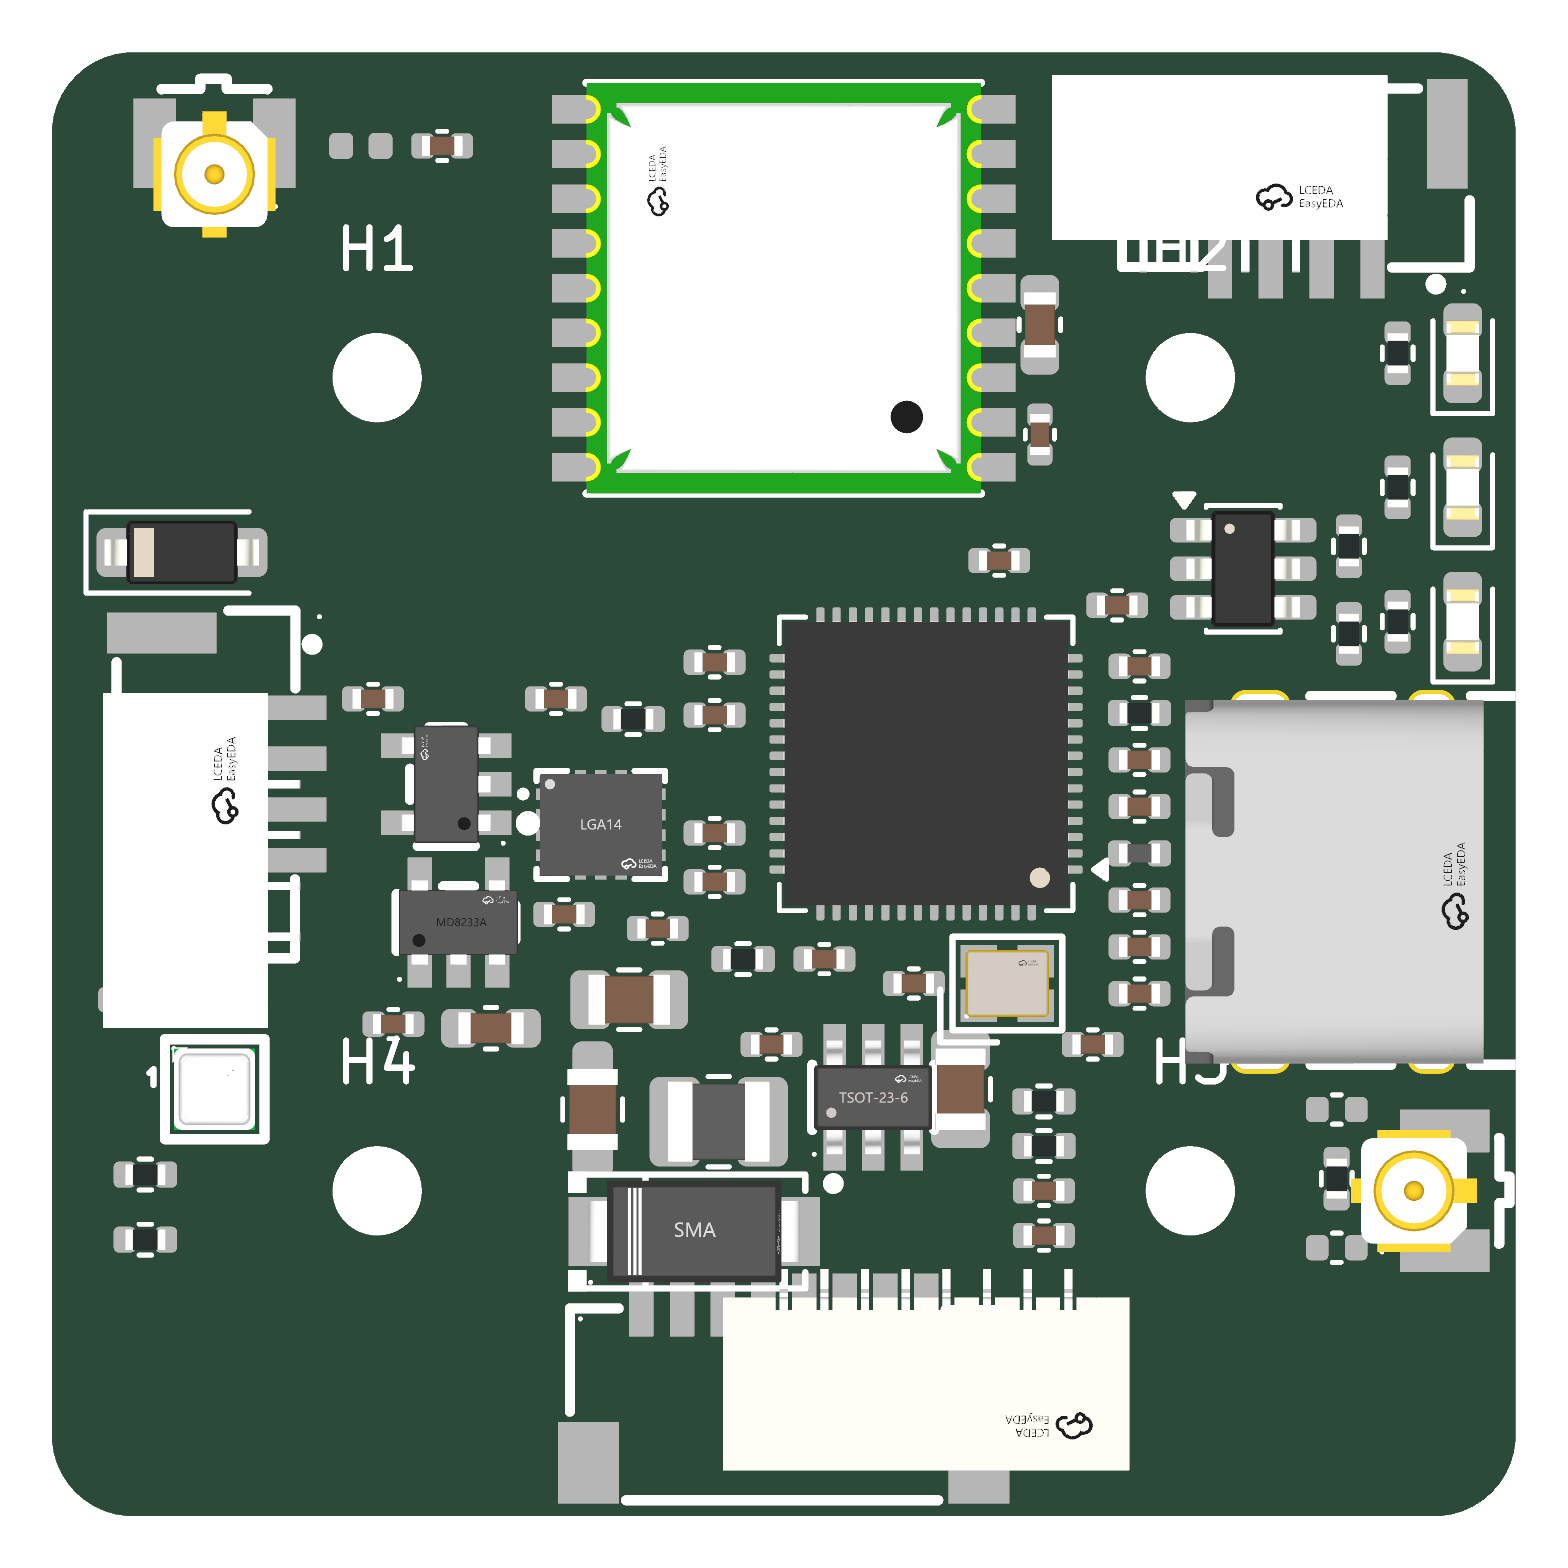
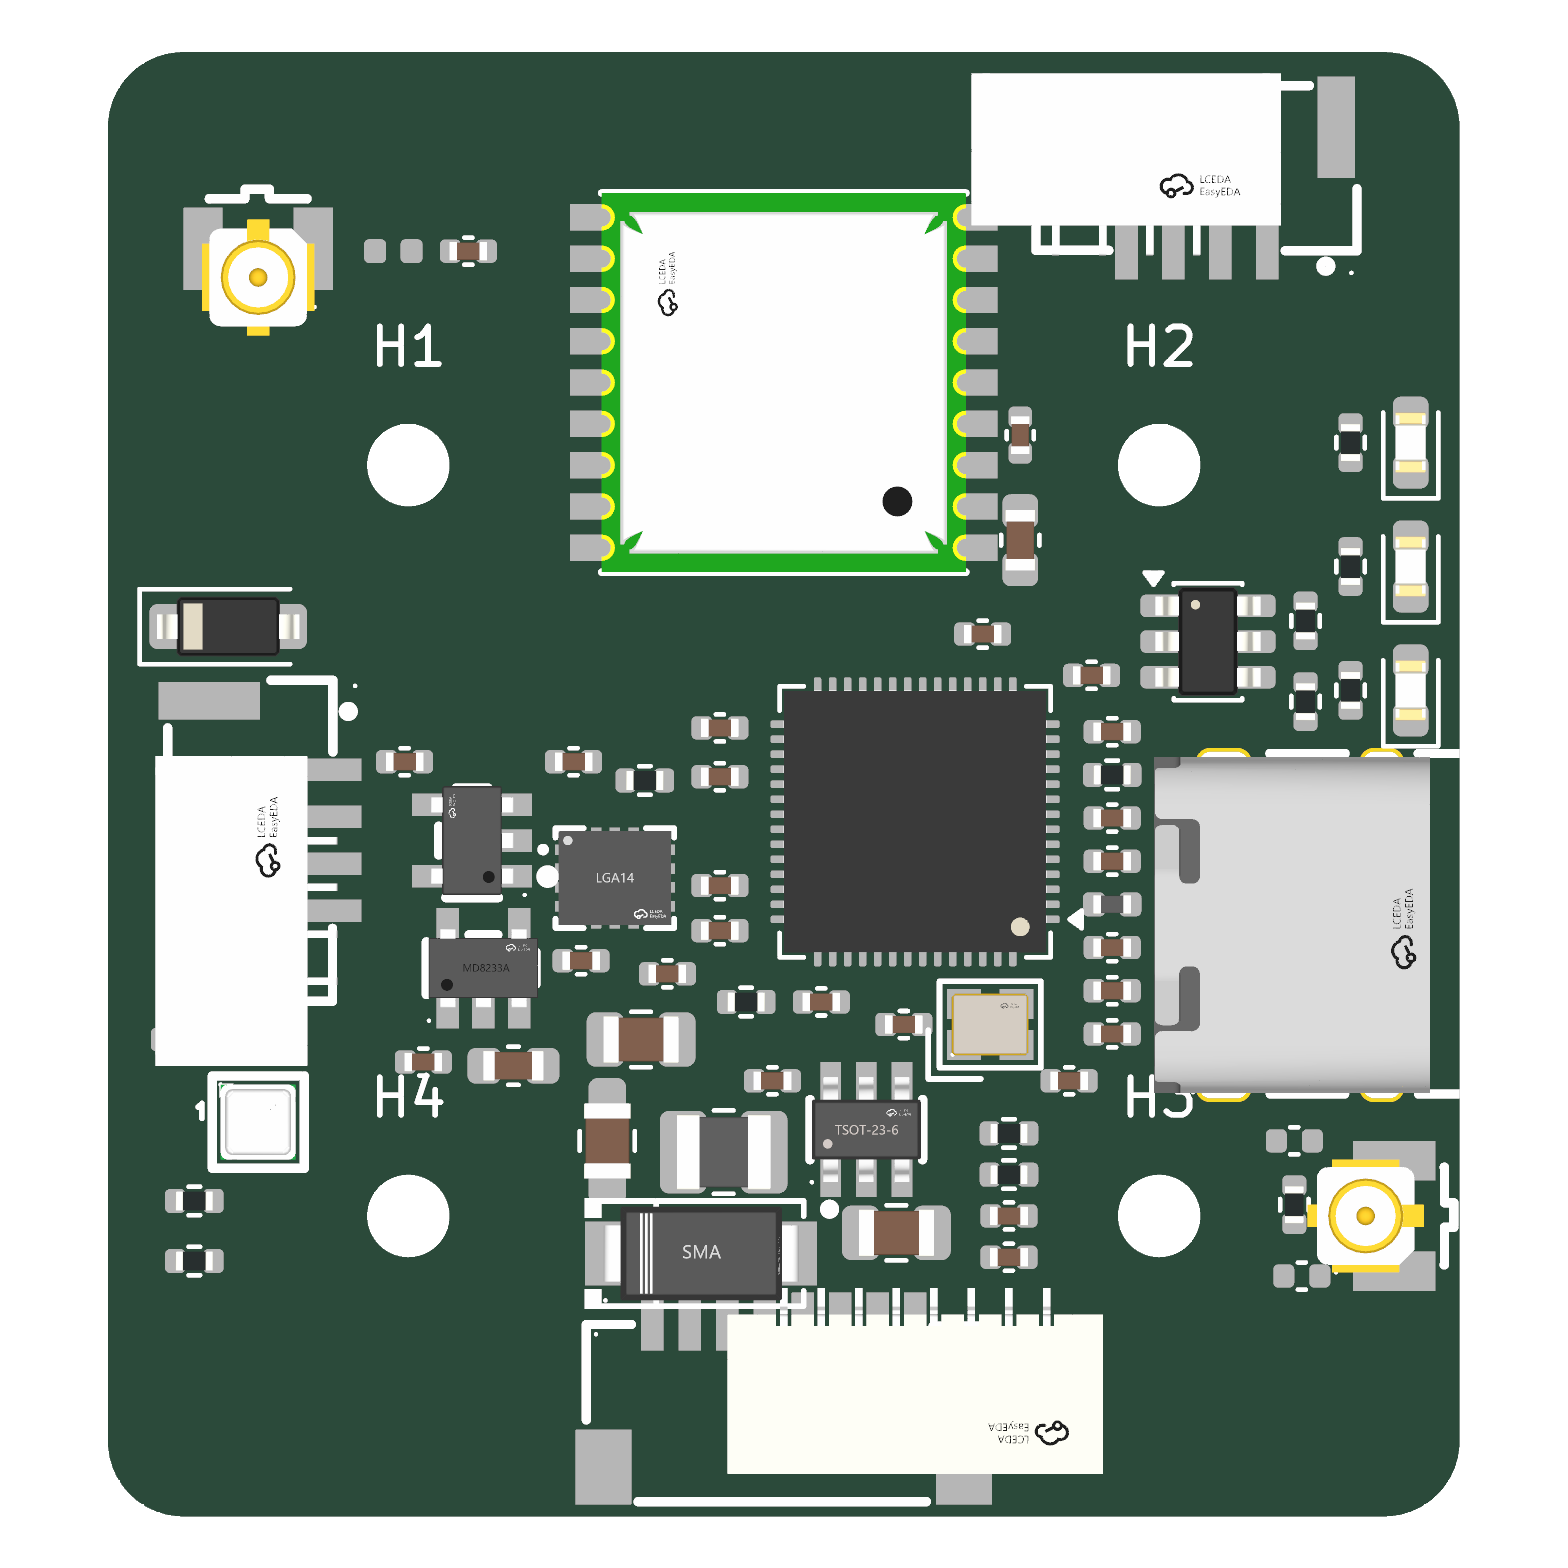
PCB: 3 mm strip on top so the charging port clears the H2 grommet; every top part now 3 mm from the holes

diff --git a/electrical/DESIGN.md b/electrical/DESIGN.md
@@ -21,7 +21,7 @@ Charging is handled by a separate board.
 |---|---|
 | Components | bare chips only, no modules or breakout boards |
 | Battery | 2S LiPo/Li-ion (6.0 to 8.4 V); input survives up to 4S (16.8 V) |
-| Board size | 36 × 36 mm, 2 mm corner radius |
+| Board size | 36 wide × 39 tall mm, 2 mm corner radius |
 | Mounting | four M2 holes on a 20 × 20 mm pattern, centred, to stack on a 20 × 20 ESC |
 | Assembly | hot plate only, so all parts on the top side; bottom has test pads only |
 | Layers | 4 |
@@ -117,11 +117,12 @@ Full pin table: [docs/pin-map.md](docs/pin-map.md).
 
 ## 7. Board layout
 
-Top view, 36 × 36 mm, 2 mm corner radius. The four M2 holes (plain, no copper) sit on the 20 × 20 pattern, 8 mm in from each edge, with a 3 mm keep-out around each so a 6 mm grommet or standoff fits. The ESC is underneath. All parts are on the top side; only the six test pads are on the bottom. This is the placement as scripted in `electrical/pcb/`; routing is done by hand.
+Top view, 36 wide by 39 tall, 2 mm corner radius. The four M2 holes (plain, no copper) sit on the 20 × 20 pattern, 8 mm in from the left, right and bottom edges and 11 mm from the top. Nothing on the top side comes within 3 mm of a hole centre, so a 6 mm grommet, nut or standoff fits at every hole, and the bottom side has nothing near the holes at all. The extra 3 mm strip along the top exists for one reason: it is the only place the charging port fits without crowding the H2 hole. The ESC is underneath. All parts are on the top side; only the test pads and the RESET/BOOT pad pairs are on the bottom. This is the placement as scripted in `electrical/pcb/`; routing is done by hand.
 
 ```
  ┌────────────────────────────────────────────┐
- │ [J3 GPS U.FL]  bias-T   U8 GPS   [J7 charge] │  top edge
+ │                                [J7 charge]  │  top strip
+ │ [J3 GPS U.FL]  bias-T   U8 GPS                │
  │    ●                            ●   LEDs    │
  │ [J5 I2C]  LDOs   U6 IMU   U1 ESP32  U2  USB │  right edge: J2 USB-C
  │   D1       C4/C19        crystal   caps     │
@@ -136,7 +137,7 @@ Top view, 36 × 36 mm, 2 mm corner radius. The four M2 holes (plain, no copper) 
 | Centre | U6 ICM-42688-P with its three capacitors and the CS pull-up | Least vibration, closest to the centre of rotation, far from the buck |
 | Centre-right | U1 ESP32 (rotated 180° so the RF pin faces the right edge), decoupling in one column beside it, crystal below it | Short paths from every power pin to its capacitor; crystal hard against pins 53/54 |
 | Right edge | J2 USB-C, U2 ESD chip and the CC resistors above it, three LEDs with their resistors, J1 Wi-Fi U.FL at the lower right with the π network beside it | Cable and LEDs reachable with the stack assembled; RF trace short and straight to the edge |
-| Top edge | U8 GPS at top centre with J3 and the bias-T at the top-left corner, J7 charging-board port at the top right | GPS in the corner opposite the Wi-Fi antenna and away from the buck; the top-right slot is the only edge left for a third port |
+| Top edge | U8 GPS at top centre with J3 and the bias-T at the top-left corner, J7 charging-board port at the top right, in the 3 mm strip above the hole line | GPS in the corner opposite the Wi-Fi antenna and away from the buck; the strip lets J7 clear H2 by 5 mm instead of sitting on top of it |
 | Left edge | J5 I2C port, D1 USB diode above it, the two LDOs beside the IMU, U7 barometer at the lower left | Barometer away from the buck's heat and the LEDs' light |
 | Bottom centre | U3 buck, L2, D5 TVS, C16 input and C18 output capacitors, the battery divider column | Right above the ESC connector where VBAT enters, switching loop kept small and away from the sensors and both antennas |
 | Bottom edge | J4 ESC connector, centred between the holes | The only connector that must face the ESC |

diff --git a/electrical/docs/circuits/05-connectors.md b/electrical/docs/circuits/05-connectors.md
@@ -39,6 +39,8 @@ Pins: GND, DOCK_DET, AUX_ADC, spare.
 
 Protection for these two lines lives on the charging board, by agreement with that team.
 
+On the board this port sits at the top right, in a 3 mm strip added above the mounting-hole line. Before that strip existed the connector body was 1.5 mm from the H2 hole, which left no room for the ESC's grommet or a nut on top; now it clears the hole centre by 5 mm.
+
 ## Test points and recovery pads
 
 Eighteen bare pads on the bottom of the board. TP1 and TP2 are UART0 TX and RX, the fallback console and flashing path if USB fails. TP3 to TP6 are VBAT, +5V, +3V3 and +3V3_SENS for checking the rails during bring-up. TP7 to TP16 bring out the IMU SPI bus (SCK, MOSI, MISO, CS, INT), I2C (SDA, SCL), the GPS UART and the ESC telemetry line, so every bus can be probed when a chip doesn't answer. TP17 and TP18 are the spare UART.

diff --git a/electrical/docs/design-decisions.md b/electrical/docs/design-decisions.md
@@ -28,4 +28,4 @@ Why the network drone flight controller is built the way it is. Add a row when a
 | 2026-09-30 | 3 mm keep-out around each mounting hole | Room for a 6 mm soft-mount grommet or standoff, per the team review |
 | 2026-09-30 | Spare UART port dropped to test pads TP17/TP18 | With the 3 mm keep-out there is one connector slot per edge; GPS, USB-C, ESC and the I2C port take four, the charging port takes the top-right |
 | 2026-09-30 | Twelve more bottom-side test pads (SPI, I2C, GPS UART, ESC telemetry) | Every bus can be probed when a chip doesn't answer; they cost nothing on a single-side assembly |
-
+| 2026-10-01 | Board grows to 36 × 39 mm (3 mm strip along the top) | The charging port J7 was 1.5 mm from hole H2; with the strip every top-side part clears every hole centre by 3 mm, so the ESC's grommets or nuts fit at all four corners |

diff --git a/README.md b/README.md
@@ -28,7 +28,7 @@ KiCad 9 project in [`electrical/pcb/network-drone-fc/`](electrical/pcb/network-d
 
 [View the schematic as a PDF](electrical/pcb/network-drone-fc/schematic.pdf) or the [placement render](electrical/pcb/network-drone-fc/placement-top.png) if you don't have KiCad. Regenerate it after schematic changes: `kicad-cli sch export pdf network-drone-fc.kicad_sch -o schematic.pdf`.
 
-- 4-layer board, 36 × 36 mm, four M2 holes on a 20 × 20 mm pattern so it stacks on a bought 20 × 20 4-in-1 ESC
+- 4-layer board, 36 × 39 mm, four M2 holes on a 20 × 20 mm pattern so it stacks on a bought 20 × 20 4-in-1 ESC
 - All parts on the top side only, so the whole board can be reflowed on a hot plate; test points (bare pads) may go on the bottom
 - Designed for a 2S battery; input stage tolerates up to 4S
 

diff --git a/mechanical/README.md b/mechanical/README.md
@@ -4,4 +4,4 @@ Frame, mounts and case parts for the network drone.
 
 Put CAD source files (STEP, and the native files from whatever CAD tool you use) here, plus a STEP export of the flight controller board (KiCad PCB editor: File → Export → STEP) so the frame can be designed around it.
 
-Key board dimensions: 36 × 36 mm, four M2 holes on a 20 × 20 mm pattern centred on the board.
+Key board dimensions: 36 mm wide, 39 mm tall, four M2 holes on a 20 × 20 mm pattern, 8 mm in from the left, right and bottom edges and 11 mm from the top. Nothing on the top side sits within 3 mm of a hole centre and the bottom near the holes is bare, so the grommets that come with the ESC (or an M2 nut) fit on either side.
